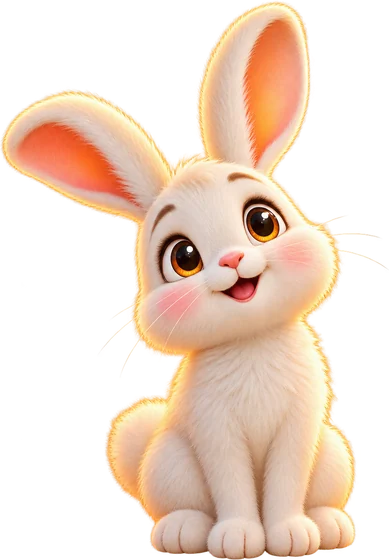
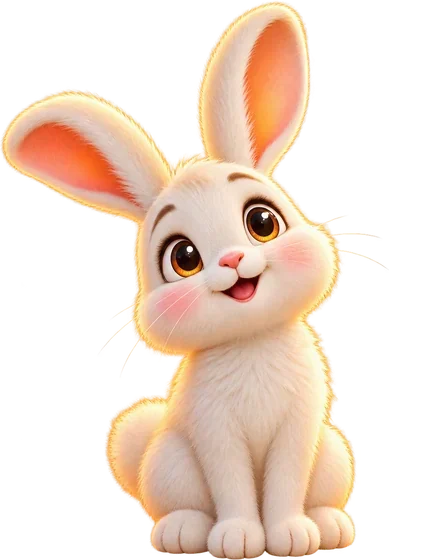
Optically centre the Nearby empty-state bunny
The bunny's tilted head put its visual mass right of the image's
geometric centre, so a centered image still looked off. Pad the
transparent image so the pixel centroid sits at the centre, and update
the aspect ratio + display width to keep the bunny the same size. Now it
reads as centered under the title.

Claude-Session: https://claude.ai/code/session_0139HEoDoukC5PAbiE9TCcfa

diff --git a/src/app/nearby/page.tsx b/src/app/nearby/page.tsx
@@ -120,9 +120,9 @@ function NearbyContent() {
               <img
                 src="/nearby-empty.webp"
                 alt="A curious bunny looking around"
-                width={200}
-                height={288}
-                className="w-28 max-w-full"
+                width={434}
+                height={560}
+                className="w-[124px] max-w-full"
               />
             }
             title="Nothing here yet"
